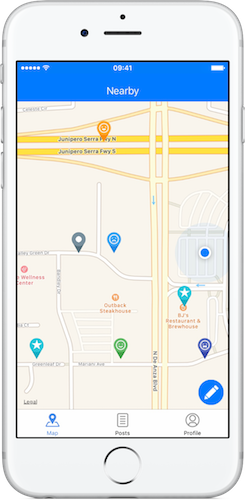
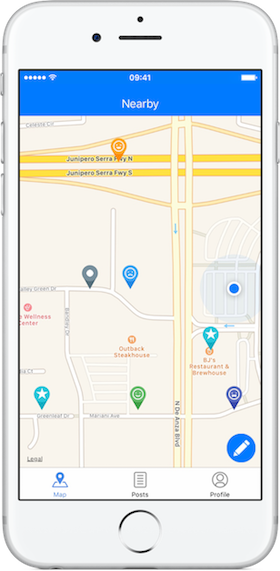
(fix) TOC links and screenshot sizing (#127)
* (fix) TOC links and screenshot sizing

* (fix) Resize screenshots

diff --git a/README.md b/README.md
@@ -8,13 +8,13 @@
 
 ## Table of Contents
 
-1. [Team](#Team)
-2. [Usage](#Usage)
-3. [Requirements](#Requirements)
-4. [Installing dependencies](#Installing-dependencies)
-5. [Run the application](#Run-the-application)
-6. [Troubleshooting](#Troubleshooting)
-7. [Resources](#Resources)
+1. [Team](#team)
+2. [Usage](#usage)
+3. [Requirements](#qequirements)
+4. [Installing dependencies](#installing-dependencies)
+5. [Run the application](#run-the-application)
+6. [Troubleshooting](#troubleshooting)
+7. [Resources](#resources)
 
 ## Team
 
